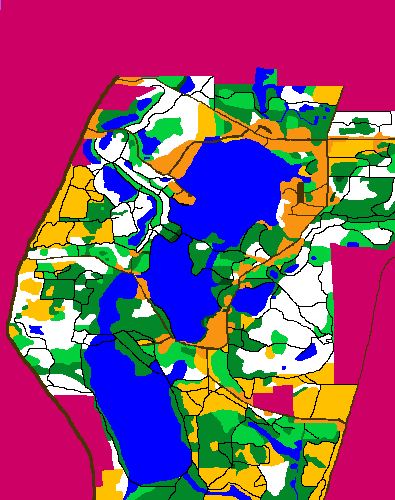
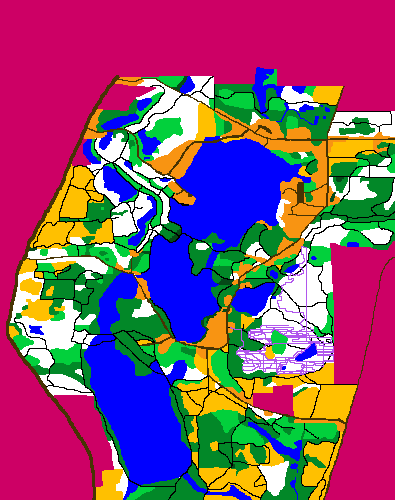
successfully executing. Unsure if behavior is correct or not.

Changed region(s): [[0.5772, 0.57, 0.8506, 0.75], [0.7291, 0.48, 0.7899, 0.57]]

diff --git a/lab1.java b/lab1.java
@@ -90,7 +90,7 @@ public class lab1 {
             while(curX != destX && curY != destY) {
                 searchMap.updateFrontierFromXY(curX,curY);
                 int[] nextPoint = searchMap.getNextMove(curX,curY);
-                System.out.println("Next Point: " + curX + " " + curY);
+                //System.out.println("Next Point: " + curX + " " + curY);
                 curX = nextPoint[0];
                 curY = nextPoint[1];
             }
@@ -221,9 +221,12 @@ class Map {
         Pixel currentPixel = grid[curX][curY];
         double compare;
 
+        //System.out.println("current pixel distance to get here: " + currentPixel.getShortestPathToMe());
         try {
             Pixel northPixel = grid[curX][curY + 1]; //will trip try catch if off grid
             compare =  currentPixel.getShortestPathToMe() + currentPixel.computeDistanceToNode(northPixel);
+            // System.out.println("Distance to north pixel: " + compare);
+            // System.out.println("Current Distance to get Here " + northPixel.getShortestPathToMe());
             if(northPixel.getShortestPathToMe() > compare) {
                 //add shortest distance g(n) into node not accounting for hueristic
                 northPixel.setShortestPathToMe(compare);
@@ -238,6 +241,8 @@ class Map {
         try {
             Pixel southPixel = grid[curX][curY - 1];
             compare = currentPixel.getShortestPathToMe() + currentPixel.computeDistanceToNode(southPixel);
+            // System.out.println("Distance to south pixel: " + compare);
+            // System.out.println("Current Distance to get Here " + southPixel.getShortestPathToMe());
             if(southPixel.getShortestPathToMe() > compare) {
                 //add shortest distance g(n) into node not accounting for hueristic
                 southPixel.setShortestPathToMe(compare);
@@ -252,6 +257,8 @@ class Map {
         try {
             Pixel eastPixel = grid[curX-1][curY];
             compare = currentPixel.getShortestPathToMe() + currentPixel.computeDistanceToNode(eastPixel);
+            // System.out.println("Distance to east pixel: " + compare);
+            // System.out.println("Current Distance to get Here " + eastPixel.getShortestPathToMe());
             if(eastPixel.getShortestPathToMe() > compare) {
                 //add shortest distance g(n) into node not accounting for hueristic
                 eastPixel.setShortestPathToMe(compare);
@@ -266,8 +273,8 @@ class Map {
         try {
             Pixel westPixel = grid[curX+1][curY];
             compare = currentPixel.getShortestPathToMe() + currentPixel.computeDistanceToNode(westPixel);
-            // System.out.println(compare);
-            // System.out.println(westPixel.getShortestPathToMe());
+            // System.out.println("Distance to west pixel: " + compare);
+            // System.out.println("Current Distance to get Here " + westPixel.getShortestPathToMe());
             if(westPixel.getShortestPathToMe() > compare) {
                 //add shortest distance g(n) into node not accounting for hueristic
                 westPixel.setShortestPathToMe(compare);
@@ -324,11 +331,13 @@ class Map {
      */
     public double backTrack(int curX, int curY) {
         Pixel p = grid[curX][curY];
+        p.setAsPath();
         Pixel prev = p.getPrevPixel();
         double distanceTravelled = 0;
         while(prev != null) {
             distanceTravelled += p.computeDistanceToNodeIgnoreTerrain(prev);
             p = prev;
+            p.setAsPath();
             prev = prev.getPrevPixel();
         }
         return distanceTravelled;
@@ -368,7 +377,6 @@ class Map {
         private final int pixelY; //Pixel y in image grid
         private final int terrain; //derived from pixelRGB
         private int pixelRGB; //color of pixel
-        private boolean visited;
         private double shortestPathToMe; //shortest path to this Pixel
         private Pixel prevPixel; //Pixel used to get here 
         private static Pixel goalPixel; //target pixel of algo
@@ -388,7 +396,6 @@ class Map {
             this.pixelY = pixelY;
             this.shortestPathToMe = Double.MAX_VALUE;
             this.prevPixel = null;
-            this.visited = false;
             this.terrain = computeTerrain(pixelRGB);
         }  
 
@@ -402,7 +409,6 @@ class Map {
             this.pixelY = other.getPixelY();
             this.pixelRGB = other.getRGB();
             this.terrain = other.getTerrain();
-            this.visited = other.isVisited();
             if(other.prevPixel == null) {
                 this.prevPixel = null;
             } else {
@@ -475,7 +481,7 @@ class Map {
                     return .8; 
                 }
                 case 4 -> { 
-                    return .6; 
+                    return .7; 
                 }
                 case 3 -> {
                     return .4; 
@@ -554,9 +560,9 @@ class Map {
             double distanceToNewNode = Math.sqrt(Math.pow(xDiff, 2) + Math.pow(yDiff,2) +  Math.pow(zDiff,2));
             double terrainWeight = dest.resolveTerrainWeight();
             if(terrainWeight == Double.MAX_VALUE) { //deals with double overflow from mult
-                return Double.MAX_VALUE;
+                return Double.MAX_VALUE/2;
             }
-            return distanceToNewNode * dest.resolveTerrainWeight();
+            return distanceToNewNode * terrainWeight;
         }
 
          /**
@@ -631,14 +637,6 @@ class Map {
             return prevPixel;
         }
 
-        public void setVisited(boolean visited) {
-            this.visited = visited;
-        }
-
-        public boolean isVisited() {
-            return visited;
-        }
-        
     }
 
 }
